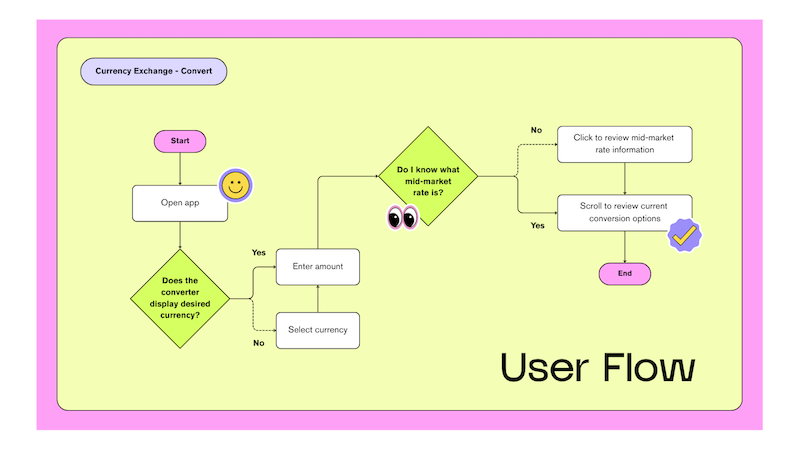
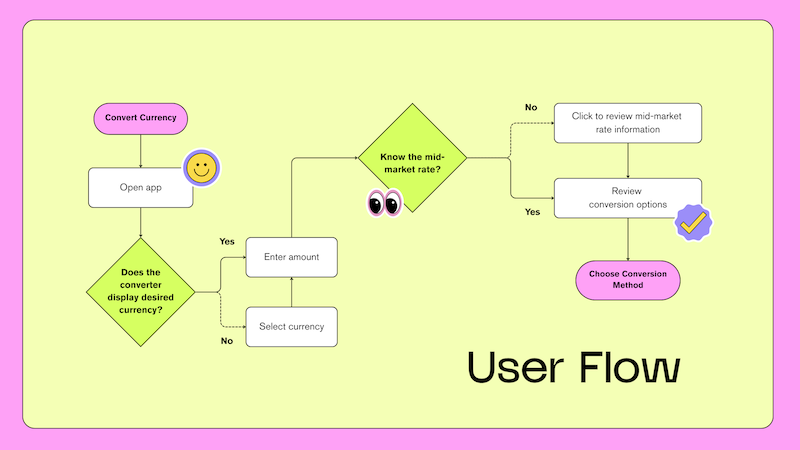
alt - project one
alt text revised as well as updated user flow image

diff --git a/src/projects/project-one.html b/src/projects/project-one.html
@@ -65,7 +65,7 @@
             <source media="(min-width: 768px)" srcset="../images/projects/project1/project-one-medium.png 1x, ../images/projects/project1/project-one-large.png 2x"/>
             <img 
               src="../images/projects/project1/project-one-small.png" srcset="../images/projects/project1/project-one-small.png 1x, ../images/projects/project1/project-one-medium.png 2x"
-              alt="Project one hero image"
+              alt="Project one hero image. Three mobile app screens showing the currency exchange calculator, including currency selection, keypad input for rates and fees, and the final total after fees"
               loading="lazy"
               class="w-full h-auto"
             />
@@ -134,7 +134,7 @@
                   <source media="(min-width: 1920px)" srcset="../images/projects/project1/user-persona-large.png 1x, ../images/projects/project1/user-persona-xlarge.png 2x"/>
                   <source media="(min-width: 768px)" srcset="../images/projects/project1/user-persona-medium.png 1x, ../images/projects/project1/user-persona-large.png 2x"/>
                   <img src="../images/projects/project1/user-persona-small.png" srcset="../images/projects/project1/user-persona-small.png 1x, ../images/projects/project1/user-persona-medium.png 2x"
-                    alt="User persona"
+                    alt="User persona of a frequent international traveler concerned about exchange fees, unclear rates, and finding trustworthy currency exchange options"
                     loading="lazy"
                     class="w-full h-auto rounded-lg shadow-md"/>
                 </picture>
@@ -143,7 +143,7 @@
                   <source media="(min-width: 1920px)" srcset="../images/projects/project1/user-journey-large.png 1x, ../images/projects/project1/user-journey-xlarge.png 2x"/>
                   <source media="(min-width: 768px)" srcset="../images/projects/project1/user-journey-medium.png 1x, ../images/projects/project1/user-journey-large.png 2x"/>
                   <img src="../images/projects/project1/user-journey-small.png" srcset="../images/projects/project1/user-journey-small.png 1x, ../images/projects/project1/user-journey-medium.png 2x"
-                    alt="User journey"
+                    alt="User journey map showing stages: search, open, use, decide"
                     loading="lazy"
                     class="w-full h-auto rounded-lg shadow-md"/>
                 </picture>
@@ -156,7 +156,7 @@
                 <source media="(min-width: 1920px)" srcset="../images/projects/project1/empathy-map-large.png 1x, ../images/projects/project1/empathy-map-xlarge.png 2x"/>
                 <source media="(min-width: 768px)" srcset="../images/projects/project1/empathy-map-medium.png 1x, ../images/projects/project1/empathy-map-large.png 2x"/>
                 <img src="../images/projects/project1/empathy-map-small.png" srcset="../images/projects/project1/empathy-map-small.png 1x, ../images/projects/project1/empathy-map-medium.png 2x"
-                  alt="Empathy map"
+                  alt="Empathy map showing what travelers say, think, feel, and do when exchanging currency, highlighting confusion about exchange rates, concern about hidden fees, and the need for a transparent conversion experience"
                   loading="lazy"
                   class="w-full h-auto rounded-lg shadow-md"/>
               </picture>
@@ -169,7 +169,7 @@
                 <source media="(min-width: 1920px)" srcset="../images/projects/project1/user-flow-large.png 1x, ../images/projects/project1/user-flow-xlarge.png 2x"/>
                 <source media="(min-width: 768px)" srcset="../images/projects/project1/user-flow-medium.png 1x, ../images/projects/project1/user-flow-large.png 2x"/>
                 <img src="../images/projects/project1/user-flow-small.png" srcset="../images/projects/project1/user-flow-small.png 1x, ../images/projects/project1/user-flow-medium.png 2x"
-                  alt="User flow"
+                  alt="User flow diagram showing the path from opening the currency app to completing a conversion, including currency selection and mid-market rate explanation decision points"
                   loading="lazy"
                   class="w-full h-auto rounded-lg shadow-md"/>
               </picture>
@@ -186,7 +186,7 @@
                 <source media="(min-width: 1920px)" srcset="../images/projects/project1/sketches-large.png 1x, ../images/projects/project1/sketches-xlarge.png 2x"/>
                 <source media="(min-width: 768px)" srcset="../images/projects/project1/sketches-medium.png 1x, ../images/projects/project1/sketches-large.png 2x"/>
                 <img src="../images/projects/project1/sketches-small.png" srcset="../images/projects/project1/sketches-small.png 1x, ../images/projects/project1/sketches-medium.png 2x"
-                  alt="Sketches"
+                  alt="Hand-drawn sketches exploring early layouts for the currency exchange app, outlining key screens such as conversion results, currency selection, and calculator input"
                   loading="lazy"
                   class="w-full h-auto rounded-lg shadow-md"/>
               </picture>
@@ -200,7 +200,7 @@
                 <source media="(min-width: 1920px)" srcset="../images/projects/project1/convert-wireframe-large.png 1x, ../images/projects/project1/convert-wireframe-xlarge.png 2x"/>
                 <source media="(min-width: 768px)" srcset="../images/projects/project1/convert-wireframe-medium.png 1x, ../images/projects/project1/convert-wireframe-large.png 2x"/>
                 <img src="../images/projects/project1/convert-wireframe-small.png" srcset="../images/projects/project1/convert-wireframe-small.png 1x, ../images/projects/project1/convert-wireframe-medium.png 2x"
-                  alt="Wireframe of the convert page"
+                  alt="Wireframes of the Convert flow showing currency selection, mid-market rate information, ranked transfer methods, and supporting interface elements like the calculator and fee details"
                   loading="lazy"
                   class="w-full h-auto rounded-lg shadow-md"/>
               </picture>
@@ -208,7 +208,7 @@
                 <source media="(min-width: 1920px)" srcset="../images/projects/project1/calculate-wireframe-large.png 1x, ../images/projects/project1/calculate-wireframe-xlarge.png 2x"/>
                 <source media="(min-width: 768px)" srcset="../images/projects/project1/calculate-wireframe-medium.png 1x, ../images/projects/project1/calculate-wireframe-large.png 2x"/>
                 <img src="../images/projects/project1/calculate-wireframe-small.png" srcset="../images/projects/project1/calculate-wireframe-small.png 1x, ../images/projects/project1/calculate-wireframe-medium.png 2x"
-                  alt="Wireframe of the calculate page"
+                  alt="Wireframes of the Calculate flow showing currency inputs, exchange rate and service fee fields, and the final total calculation with supporting input panels"
                   loading="lazy"
                   class="w-full h-auto rounded-lg shadow-md"/>
               </picture>
@@ -252,7 +252,7 @@
                 <source media="(min-width: 1920px)" srcset="../images/projects/project1/progress-bar-large.png 1x, ../images/projects/project1/progress-bar-xlarge.png 2x"/>
                 <source media="(min-width: 768px)" srcset="../images/projects/project1/progress-bar-medium.png 1x, ../images/projects/project1/progress-bar-large.png 2x"/>
                 <img src="../images/projects/project1/progress-bar-small.png" srcset="../images/projects/project1/progress-bar-small.png 1x, ../images/projects/project1/progress-bar-medium.png 2x"
-                  alt="Wireframe of the calculate page"
+                  alt="Wireframe comparison of the Convert flow showing early progress indicator and the final design with default currencies and a pre-filled amount to improve clarity and user confidence"
                   loading="lazy"
                   class="w-full h-auto rounded-lg shadow-md"/>
               </picture>
